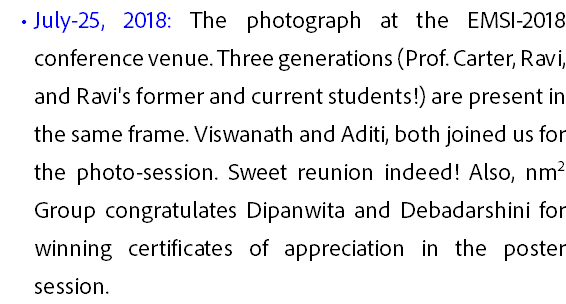
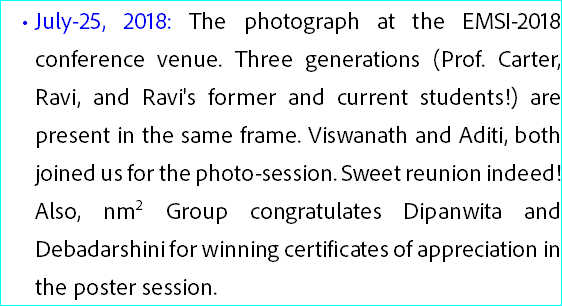
Ravishankar Group Webpage

Changed region(s): [[0.0, 0.0, 1.0, 1.0]]

diff --git a/in-the-news.html b/in-the-news.html
@@ -11,7 +11,7 @@
   <title>In the News</title>
   <!-- CSS -->
   <link rel="stylesheet" type="text/css" href="css/site_global.css?494395278"/>
-  <link rel="stylesheet" type="text/css" href="css/in-the-news.css?226765919" id="pagesheet"/>
+  <link rel="stylesheet" type="text/css" href="css/in-the-news.css?287483337" id="pagesheet"/>
   <!-- Other scripts -->
   <script type="text/javascript">
    document.documentElement.className += ' js';
@@ -61,17 +61,17 @@
      <div class="clip_frame grpelem" id="u5638"><!-- image -->
       <img class="block" id="u5638_img" src="images/colloquium.png" alt="" width="448" height="435"/>
      </div>
-     <img class="grpelem" id="u5736-8" alt="June-1, 2018: Dipanwita finished her thesis colloquium. Nice work on nucleation and growth! nm2 group congratulates her on the successful completion. Here are couple of snaps after her colloquium. " width="572" height="152" src="images/u5736-8.png"/><!-- rasterized frame -->
-     <img class="grpelem" id="u7528-8" alt="July-25, 2018: The photograph at the EMSI-2018 conference venue. Three generations (Prof. Carter, Ravi, and Ravi's former and current students!) are present in the same frame. Viswanath and Aditi, both joined us for the photo-session. Sweet reunion indeed! Also, nm2 Group congratulates Dipanwita and Debadarshini for winning certificates of appreciation in the poster session. " width="566" height="304" src="images/u7528-8.png"/><!-- rasterized frame -->
+     <img class="grpelem" id="u5736-8" alt="June-1, 2018: Dipanwita finished her thesis colloquium. Nice work on nucleation and growth! nm2 group congratulates her on the successful completion. Here are couple of snaps after her colloquium. " width="567" height="154" src="images/u5736-8.png"/><!-- rasterized frame -->
+     <img class="grpelem" id="u7528-8" alt="July-25, 2018: The photograph at the EMSI-2018 conference venue. Three generations (Prof. Carter, Ravi, and Ravi's former and current students!) are present in the same frame. Viswanath and Aditi, both joined us for the photo-session. Sweet reunion indeed! Also, nm2 Group congratulates Dipanwita and Debadarshini for winning certificates of appreciation in the poster session. " width="562" height="306" src="images/u7528-8.png"/><!-- rasterized frame -->
      <div class="clip_frame grpelem" id="u7535"><!-- image -->
       <img class="block" id="u7535_img" src="images/group-photo-emsi-4-crop-u7535.jpg" alt="" width="454" height="340"/>
      </div>
     </div>
-    <div class="clearfix colelem" id="pu7599-12"><!-- group -->
-     <img class="grpelem" id="u7599-12" alt="Aug-9, 2018: Noopur wins the best poster award in TOCAT-2018 at Hokkaido, Japan. She presented her work on MnO2-based catalyst for CO oxidation. The snap on the left (courtesy: TOCAT website) shows the hard work she had put in! Congratulations Noopur! " width="763" height="152" src="images/u7599-12.png"/><!-- rasterized frame -->
+    <div class="clearfix colelem" id="pu7600"><!-- group -->
      <div class="clip_frame grpelem" id="u7600"><!-- image -->
       <img class="block" id="u7600_img" src="images/tocat-noopur.jpg" alt="" width="257" height="257"/>
      </div>
+     <img class="grpelem" id="u7599-14" alt="Aug-9, 2018: Noopur wins the best poster award in TOCAT-2018 at Hokkaido, Japan. She presented her work on MnO2-based catalyst for CO oxidation. The snap on the left (courtesy: TOCAT website) shows the hard work she had put in! Congratulations Noopur! " width="754" height="154" src="images/u7599-14.png"/><!-- rasterized frame -->
     </div>
     <div class="clearfix colelem" id="pu7606"><!-- group -->
      <div class="clip_frame clearfix grpelem" id="u7606"><!-- image -->
@@ -79,7 +79,13 @@
        <img class="position_content" id="u7606_img" src="images/imc-aus.jpg" alt="" width="438" height="329"/>
       </div>
      </div>
-     <img class="grpelem" id="u7612-6" alt="Sep-14, 2018: Some of the group members attended IMC-19 at Sydney, Australia. In the snap (from L to R): Debadarshini, Pavithra, Dipanwita, Paromita, Barry, K.C, Ravi andf Prafull. They really had a good time at Sydney! " width="600" height="152" src="images/u7612-6.png"/><!-- rasterized frame -->
+     <img class="grpelem" id="u7612-6" alt="Sep-14, 2018: Some of the group members attended IMC-19 at Sydney, Australia. In the snap (from L to R): Debadarshini, Pavithra, Dipanwita, Paromita, Barry, K.C, Ravi and Prafull. They really had a good time at Sydney! " width="590" height="154" src="images/u7612-6.png"/><!-- rasterized frame -->
+    </div>
+    <div class="clearfix colelem" id="pu7628"><!-- group -->
+     <div class="clip_frame grpelem" id="u7628"><!-- image -->
+      <img class="block" id="u7628_img" src="images/shwetha-germany-crop-u7628.jpg" alt="" width="214" height="285"/>
+     </div>
+     <img class="grpelem" id="u7634-6" alt="Oct-Nov, 2018: Shwetha went to Kiel, Germany (Technische Fakultät, CAU-Kiel) on a research visit in Prof. Dr. rer. nat. Rainer Adelung's group for a month! here is a snap of Shwetha at Kiel. She tells us that she had a good time there!" width="797" height="121" src="images/u7634-6.png"/><!-- rasterized frame -->
     </div>
     <div class="clearfix colelem" id="pu7619"><!-- group -->
      <div class="clip_frame clearfix grpelem" id="u7619"><!-- image -->
@@ -87,7 +93,7 @@
        <img class="position_content" id="u7619_img" src="images/dsc_2693.jpg" alt="" width="459" height="306"/>
       </div>
      </div>
-     <img class="grpelem" id="u7625-6" alt="Dec-10, 2018: Dipanwita receives Karnataka-DST Nanoscience Award. The snap on the left shows she receiving the prize from Prof. C. N. R. Rao. Congratulations Dipanwita!" width="600" height="152" src="images/u7625-6.png"/><!-- rasterized frame -->
+     <img class="grpelem" id="u7625-6" alt="Dec-10, 2018: Dipanwita receives Karnataka-DST Nanoscience Award. The snap on the left shows she receiving the prize from Prof. C. N. R. Rao. Congratulations Dipanwita!" width="589" height="154" src="images/u7625-6.png"/><!-- rasterized frame -->
     </div>
     <div class="verticalspacer"></div>
     <a class="nonblock nontext colelem" id="u4757-6" href="http://www.musefree.com"><!-- rasterized frame --><img id="u4757-6_img" alt="Website designed by: Ahin Roy and Rajeev Kumar Rai

diff --git a/css/in-the-news.css b/css/in-the-news.css
@@ -1,7 +1,7 @@
 .version.in_the_news /* version checker */
 {
-	color: #00000D;
-	background-color: #842C5F;
+	color: #000011;
+	background-color: #22A5C9;
 }
 
 .html
@@ -13,7 +13,7 @@
 {
 	z-index: 1;
 	width: 1020px;
-	min-height: 2112.9500000000025px;
+	min-height: 2454.950000000004px;
 	background-image: none;
 	border-style: none;
 	border-color: #000000;
@@ -423,7 +423,7 @@
 	position: relative;
 	margin-right: -10000px;
 	margin-top: 25px;
-	left: 448px;
+	left: 454px;
 }
 
 #u7528-8
@@ -434,7 +434,7 @@
 	position: relative;
 	margin-right: -10000px;
 	margin-top: 268px;
-	left: 454px;
+	left: 459px;
 }
 
 #u7535
@@ -452,20 +452,9 @@
 	left: -1px;
 }
 
-#u7599-12
-{
-	z-index: 78;
-	display: block;
-	vertical-align: top;
-	position: relative;
-	margin-right: -10000px;
-	margin-top: 35px;
-	left: 257px;
-}
-
 #u7600
 {
-	z-index: 90;
+	z-index: 92;
 	width: 257px;
 	border-width: 1px;
 	border-style: solid;
@@ -478,9 +467,20 @@
 	left: -1px;
 }
 
+#u7599-14
+{
+	z-index: 78;
+	display: block;
+	vertical-align: top;
+	position: relative;
+	margin-right: -10000px;
+	margin-top: 35px;
+	left: 267px;
+}
+
 #u7606
 {
-	z-index: 92;
+	z-index: 94;
 	width: 420px;
 	border-width: 1px;
 	border-style: solid;
@@ -509,16 +509,49 @@
 
 #u7612-6
 {
-	z-index: 94;
+	z-index: 96;
 	display: block;
 	vertical-align: top;
 	position: relative;
 	margin-right: -10000px;
 	margin-top: 64px;
-	left: 420px;
+	left: 431px;
 }
 
-#pu7599-12,#pu7606,#pu7619
+#pu7628
+{
+	width: 0.01px;
+	margin-left: 1px;
+	margin-top: 47px;
+}
+
+#u7628
+{
+	z-index: 110;
+	width: 214px;
+	border-width: 1px;
+	border-style: solid;
+	border-color: #000000;
+	background-color: transparent;
+	margin-bottom: -1px;
+	position: relative;
+	margin-right: -10000px;
+	margin-top: -1px;
+	left: -1px;
+}
+
+#u7634-6
+{
+	z-index: 112;
+	display: block;
+	vertical-align: top;
+	position: relative;
+	margin-right: -10000px;
+	margin-top: 67px;
+	left: 223px;
+}
+
+#pu7600,#pu7606,#pu7619
 {
 	width: 0.01px;
 	margin-top: 47px;
@@ -526,7 +559,7 @@
 
 #u7619
 {
-	z-index: 100;
+	z-index: 102;
 	width: 420px;
 	border-width: 1px;
 	border-style: solid;
@@ -553,19 +586,19 @@
 
 #u7625-6
 {
-	z-index: 102;
+	z-index: 104;
 	display: block;
 	vertical-align: top;
 	position: relative;
 	margin-right: -10000px;
-	margin-top: 54px;
-	left: 420px;
+	margin-top: 67px;
+	left: 431px;
 }
 
 #u4757-6
 {
 	z-index: 46;
-	margin-top: 58px;
+	margin-top: 68px;
 	position: relative;
 }
 
